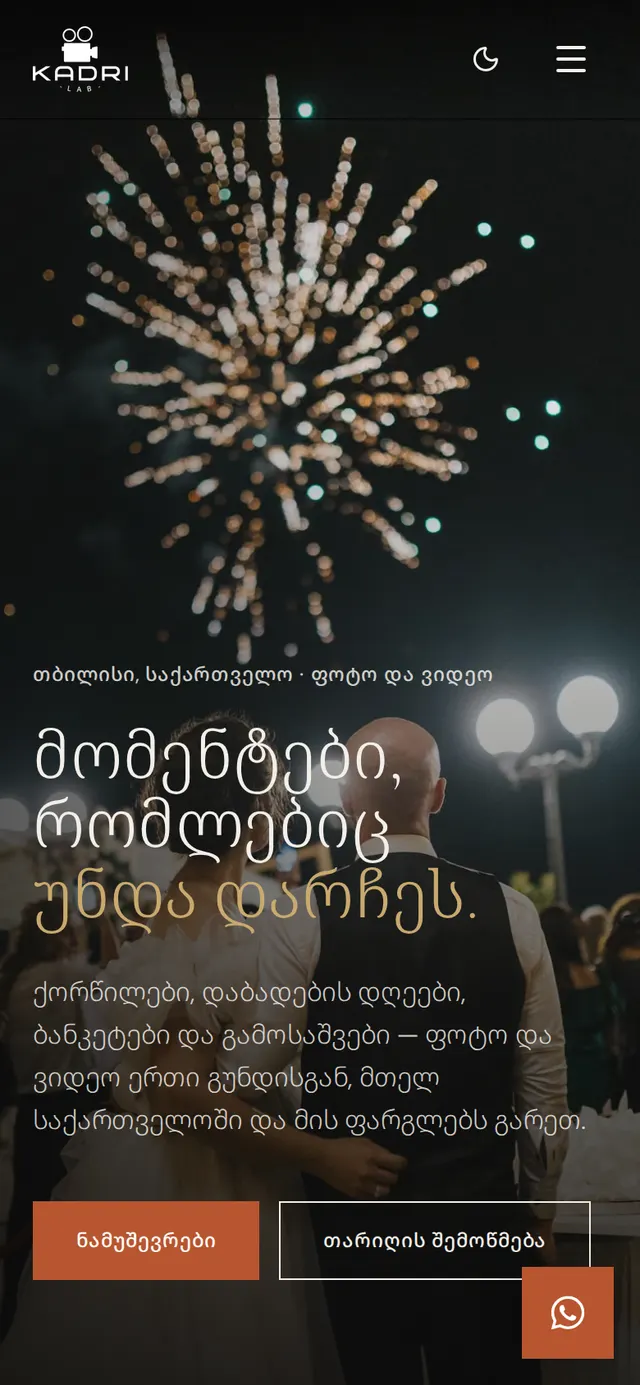
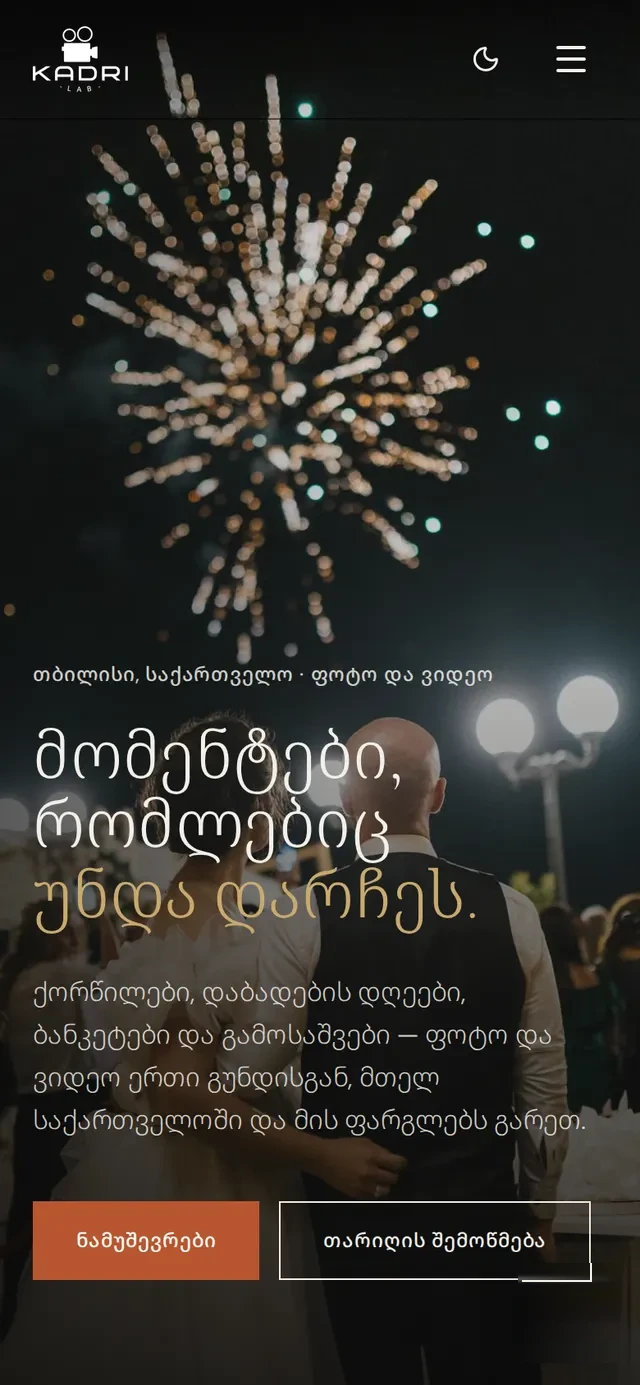
fix(contenido): avisos detectados al preparar los vídeos del plan premium
- Posts de tienda (ES y RU): se quita «suele salir más barata a partir del
  2.º-3.er año» y se reescribe con las cifras del propio post (con
  mantenimiento opcional el total es parecido o algo superior); también la
  frase del «ahorro» en «cuándo compensa una tienda a medida».
- Accounts: titular sin superlativo (ES, EN, RU, KA); la tarjeta de datos
  locales dice que los datos se quedan en el equipo en lugar de «absoluta
  privacidad comercial».
- Catálogo: MNT-03 spec alineado con human («menos de 24 horas»); SEO-04
  human sin «automáticamente» (hreflang, sin redirecciones forzadas);
  APP-02 y PACK-04 human sin «miles de usuarios», sin referencia al
  prototipo propio ni a «advisory locks» y sin «nunca/garantizan».
- KADRI LAB: captura KA móvil sin el botón flotante de WhatsApp.

KA pendiente de revisión nativa.

Changed region(s): [[0.8125, 0.9004, 0.9688, 0.9935]]

diff --git a/src/data/catalog.ts b/src/data/catalog.ts
@@ -245,10 +245,10 @@ export const lines: Line[] = [
         time: { es: '3–5 semanas', ru: '3–5 недель', en: '3–5 weeks', ka: '3–5 კვირა' },
         unit: 'once',
         human: {
-          es: 'Consigues un backend capaz de aguantar miles de usuarios a la vez — con matching de conductores por geolocalización en tiempo real (Redis geosearch, sin guardar el histórico de puntos GPS más de lo necesario) y bloqueo de concurrencia real a nivel de base de datos, para que dos peticiones simultáneas nunca generen un error de cobro duplicado. Así un pico de demanda no tumba lo que has construido.',
-          ru: 'Вы получаете бэкенд, способный выдержать тысячи пользователей одновременно — с подбором водителей по геолокации в реальном времени (Redis geosearch, без хранения истории GPS-точек дольше необходимого) и реальной блокировкой параллелизма на уровне базы данных, чтобы два одновременных запроса никогда не привели к двойному списанию. Так пиковый спрос не обрушивает то, что вы построили.',
-          en: "You get a backend capable of handling thousands of users at once — with driver matching by real-time geolocation (Redis geosearch, without storing GPS point history longer than necessary) and real concurrency locking at the database level, so two simultaneous requests never produce a duplicate charge. So a spike in demand doesn't bring down what you've built.",
-          ka: 'იღებთ ბექენდს, რომელსაც ათასობით მომხმარებლის ერთდროულად დაძლევა შეუძლია — მძღოლების შერჩევით რეალურ დროში გეოლოკაციით (Redis geosearch, GPS წერტილების ისტორიის საჭიროზე მეტხანს შენახვის გარეშე) და მონაცემთა ბაზის დონეზე რეალური კონკურენტულობის ბლოკირებით, რათა ორმა ერთდროულმა მოთხოვნამ არასდროს გამოიწვიოს ორმაგი დათვლა. ასე მოთხოვნის პიკი არ ანგრევს აშენებულს.',
+          es: 'Consigues un backend preparado para crecer con tu demanda — con asignación por proximidad en tiempo real cuando tu servicio lo necesita (Redis geosearch, sin guardar el histórico de puntos GPS más de lo necesario) y bloqueos de concurrencia en la base de datos para evitar cobros duplicados cuando dos peticiones llegan a la vez. Así un pico de demanda no tumba lo que has construido.',
+          ru: 'Вы получаете бэкенд, готовый расти вместе со спросом — с назначением по близости в реальном времени, когда сервису это нужно (Redis geosearch, без хранения истории GPS-точек дольше необходимого), и блокировками параллельного доступа в базе данных, чтобы избежать двойных списаний, когда два запроса приходят одновременно. Так пиковый спрос не обрушивает то, что вы построили.',
+          en: "You get a backend ready to grow with your demand — with real-time proximity matching when your service needs it (Redis geosearch, without storing GPS point history longer than necessary) and database-level concurrency locks to avoid duplicate charges when two requests arrive at once. So a spike in demand doesn't bring down what you've built.",
+          ka: 'იღებთ ბექენდს, რომელიც თქვენს მოთხოვნასთან ერთად გაიზრდება — რეალურ დროში სიახლოვის მიხედვით მინიჭებით, როცა თქვენს სერვისს ეს სჭირდება (Redis geosearch, GPS წერტილების ისტორიის საჭიროზე მეტხანს შენახვის გარეშე) და მონაცემთა ბაზის დონეზე კონკურენტული წვდომის ბლოკირებით, რათა ორი ერთდროული მოთხოვნისას თავიდან ავიცილოთ ორმაგი გადახდა. ასე მოთხოვნის პიკი არ დაანგრევს იმას, რაც შექმენით.',
         },
         launch: { eur: [2500, 5500], rub: [150000, 330000], gel: [7500, 16500] },
         standard: { eur: [6000, 12000], rub: [360000, 720000], gel: [18000, 36000] },
@@ -484,10 +484,10 @@ export const lines: Line[] = [
         code: 'MNT-03',
         name: { es: 'Business', ru: 'Business', en: 'Business', ka: 'Business' },
         spec: {
-          es: 'Cinco horas, SEO básico, respuesta en 24 horas',
-          ru: 'Пять часов, базовое SEO, ответ в течение 24 часов',
-          en: 'Five hours, basic SEO, 24-hour response',
-          ka: 'ხუთი საათი, საბაზისო SEO, პასუხი 24 საათში',
+          es: 'Cinco horas, SEO básico, respuesta en menos de 24 horas',
+          ru: 'Пять часов, базовое SEO, ответ менее чем за 24 часа',
+          en: 'Five hours, basic SEO, response in under 24 hours',
+          ka: 'ხუთი საათი, საბაზისო SEO, პასუხი 24 საათზე ნაკლებში',
         },
         unit: 'month',
         human: {
@@ -603,10 +603,10 @@ export const lines: Line[] = [
         time: { es: '4–6 días', ru: '4–6 дней', en: '4–6 days', ka: '4–6 დღე' },
         unit: 'once',
         human: {
-          es: 'Consigues que cada visitante caiga en la versión correcta de tu web según su idioma — automáticamente, sin que muevas un dedo.',
-          ru: 'Вы получаете автоматический переход каждого посетителя на нужную языковую версию сайта.',
-          en: 'You get every visitor landing on the right version of your site for their language — automatically, without lifting a finger.',
-          ka: 'იღებთ იმას, რომ ყოველი ვიზიტორი ხვდება საიტის სწორ ენობრივ ვერსიაზე ავტომატურად.',
+          es: 'Consigues que Google sepa qué versión de tu web corresponde a cada idioma — así quien te busca en otro idioma llega a la versión que le toca, sin redirecciones forzadas.',
+          ru: 'Вы получаете правильную привязку языковых версий: поисковики понимают, какая версия сайта для какого языка, и человек попадает на нужную — без принудительных переадресаций.',
+          en: 'You get Google to know which version of your site belongs to each language — so people searching in another language land on the right one, with no forced redirects.',
+          ka: 'იღებთ იმას, რომ საძიებო სისტემა ესმის, რომელი ვერსია რომელ ენას შეესაბამება, და ადამიანი ხვდება სწორ ვერსიაზე — იძულებითი გადამისამართების გარეშე.',
         },
         launch: { eur: [350, 700], rub: [21000, 42000], gel: [1050, 2100] },
         standard: { eur: [800, 1800], rub: [48000, 108000], gel: [2400, 5400] },
@@ -814,10 +814,10 @@ export const bundles: Bundle[] = [
       ka: ['მორგებული ბექენდი და მონაცემთა ბაზა', 'ჯავშნების მართვა რეალურ დროში', 'მარშრუტების ადმინ პანელი'],
     },
     human: {
-      es: 'Consigues backend, reservas en tiempo real y panel de rutas — con la misma arquitectura que ya aplico en mi propio prototipo: asignación de conductores por proximidad real, y bloqueos de transacción (advisory locks) que garantizan que ninguna comisión se calcule dos veces por accidente. El punto de partida serio para tu propia app de transporte, no un prototipo de juguete.',
-      ru: 'Вы получаете бэкенд, бронирования в реальном времени и панель маршрутов — с той же архитектурой, что я уже применяю в собственном прототипе: назначение водителей по реальной близости и блокировки транзакций (advisory locks), которые гарантируют, что ни одна комиссия не будет случайно посчитана дважды. Серьёзная стартовая точка для вашего собственного транспортного приложения, а не игрушечный прототип.',
-      en: 'You get a backend, real-time bookings and a route panel — with the same architecture I\'m already using in my own prototype: driver assignment by real proximity, and transaction locks (advisory locks) that guarantee no commission ever gets calculated twice by accident. A serious starting point for your own transport app, not a toy prototype.',
-      ka: 'იღებთ ბექენდს, რეალურ დროში ჯავშნებს და მარშრუტების პანელს — იმავე არქიტექტურით, რომელსაც უკვე ვიყენებ საკუთარ პროტოტიპში: მძღოლების მინიჭება რეალური სიახლოვის მიხედვით და ტრანზაქციის ბლოკირებები (advisory locks), რომლებიც უზრუნველყოფენ, რომ კომისია არასდროს დაითვლება ორჯერ შემთხვევით. სერიოზული საწყისი წერტილი თქვენი ტრანსპორტის აპლიკაციისთვის, არა სათამაშო პროტოტიპი.',
+      es: 'Consigues backend, reservas en tiempo real y panel de rutas — con asignación de conductores por proximidad y bloqueos de transacción en la base de datos para evitar que una comisión se calcule dos veces por accidente. Un punto de partida serio para tu propia app de transporte.',
+      ru: 'Вы получаете бэкенд, бронирования в реальном времени и панель маршрутов — с назначением водителей по близости и блокировками транзакций в базе данных, чтобы комиссия не считалась дважды по ошибке. Серьёзная стартовая точка для вашего собственного транспортного приложения.',
+      en: 'You get a backend, real-time bookings and a route panel — with driver assignment by proximity and database-level transaction locks to avoid a commission being calculated twice by accident. A serious starting point for your own transport app.',
+      ka: 'იღებთ ბექენდს, რეალურ დროში ჯავშნებს და მარშრუტების პანელს — მძღოლების მინიჭებით სიახლოვის მიხედვით და მონაცემთა ბაზის დონეზე ტრანზაქციის ბლოკირებებით, რათა კომისია შემთხვევით ორჯერ არ დაითვალოს. სერიოზული საწყისი წერტილი თქვენი ტრანსპორტის აპლიკაციისთვის.',
     },
     launch: { eur: [3800], rub: [220000], gel: [11400] },
     standard: { eur: [8500], rub: [510000], gel: [25500] },

diff --git a/src/content/blog/ru/internet-magazin-pod-klyuch-vs-platformy.md b/src/content/blog/ru/internet-magazin-pod-klyuch-vs-platformy.md
@@ -28,7 +28,7 @@ draft: false
 - **Готовая платформа за 3 года:** 90 000–324 000 ₽ только на подписку, без учёта приложений.
 - **Магазин на заказ за 3 года:** начальная стоимость (80 000–140 000 ₽) плюс опциональное обслуживание (1 500–3 300 ₽/мес = 54 000–118 800 ₽ за 3 года) — но без обязательной платы платформе.
 
-Начиная со второго-третьего года, магазин на заказ обычно выходит дешевле в сумме, именно потому что вы не платите ежемесячную подписку просто за то, чтобы магазин продолжал существовать.
+За три года суммы сближаются: без подключённого обслуживания магазин на заказ (80 000–140 000 ₽) — от уровня чуть ниже нижней границы до нижней части диапазона подписки на платформу (90 000–324 000 ₽, без учёта приложений); с необязательным обслуживанием (134 000–258 800 ₽ в сумме) выходит в похожем диапазоне или чуть выше. Меняется характер расходов: разовый платёж и необязательное обслуживание против подписки, которую нельзя перестать платить, просто чтобы магазин продолжал существовать.
 
 ## Когда готовая платформа — правильный выбор
 
@@ -39,7 +39,7 @@ draft: false
 ## Когда магазин на заказ — правильный выбор
 
 - У вашего бизнеса **особая логика**, которую шаблоны плохо покрывают (например, цены, зависящие от количества, бронирование с проверкой доступности, настраиваемые товары).
-- Планируете продавать **годами**, а не как временный тест — здесь экономия на отсутствии подписки навсегда становится заметной.
+- Планируете продавать **годами**, а не как временный тест — здесь имеет значение, что нет платы платформе, пока магазин существует.
 - Хотите, чтобы магазин **загружался максимально быстро**, без лишнего веса универсальной системы, рассчитанной на тысячи разных сценариев использования, а не конкретно на ваш.
 
 ## Что не скажет тот, кто продаёт только один вариант

diff --git a/src/content/blog/es/tienda-a-medida-vs-shopify-woocommerce.md b/src/content/blog/es/tienda-a-medida-vs-shopify-woocommerce.md
@@ -32,7 +32,7 @@ Aquí es donde cambia la conversación:
 - **WooCommerce a 3 años:** 450€-1.500€ en hosting/plugins, más tu tiempo de mantenimiento.
 - **Tienda a medida a 3 años:** el coste inicial (1.200€-2.200€) más mantenimiento opcional (25-55€/mes = 900€-1.980€ en 3 años) — pero sin cuota obligatoria de plataforma.
 
-A partir del segundo o tercer año, la tienda a medida suele salir más barata en total, precisamente porque no pagas una cuota mensual de por vida solo por seguir existiendo.
+A tres años los totales se acercan mucho: sin mantenimiento contratado, la tienda a medida (1.200€-2.200€) queda dentro del rango de una plataforma de cuota (900€-3.240€, sin contar apps); con el mantenimiento opcional (2.100€-4.180€ en total), queda en un rango parecido o algo por encima. Lo que cambia es el tipo de gasto: un pago inicial y un mantenimiento opcional, frente a una cuota que no puedes dejar de pagar solo por seguir existiendo.
 
 ## Cuándo Shopify es la respuesta correcta (de verdad)
 
@@ -49,7 +49,7 @@ A partir del segundo o tercer año, la tienda a medida suele salir más barata e
 ## Cuándo una tienda a medida es la respuesta correcta
 
 - Tu negocio tiene **lógica específica** que las plantillas no cubren bien (por ejemplo, precios que varían según cantidad, reservas con disponibilidad, productos configurables).
-- Planeas vender **durante años**, no como prueba temporal — ahí el ahorro de no pagar cuota mensual de por vida se nota de verdad.
+- Planeas vender **durante años**, no como prueba temporal — ahí pesa que no haya una cuota de plataforma que pagar mientras exista la tienda.
 - Quieres que la tienda **cargue lo más rápido posible**, sin el peso extra de un sistema genérico pensado para miles de casos de uso distintos al tuyo.
 
 ## Lo que no te va a decir quien solo vende una de las tres
